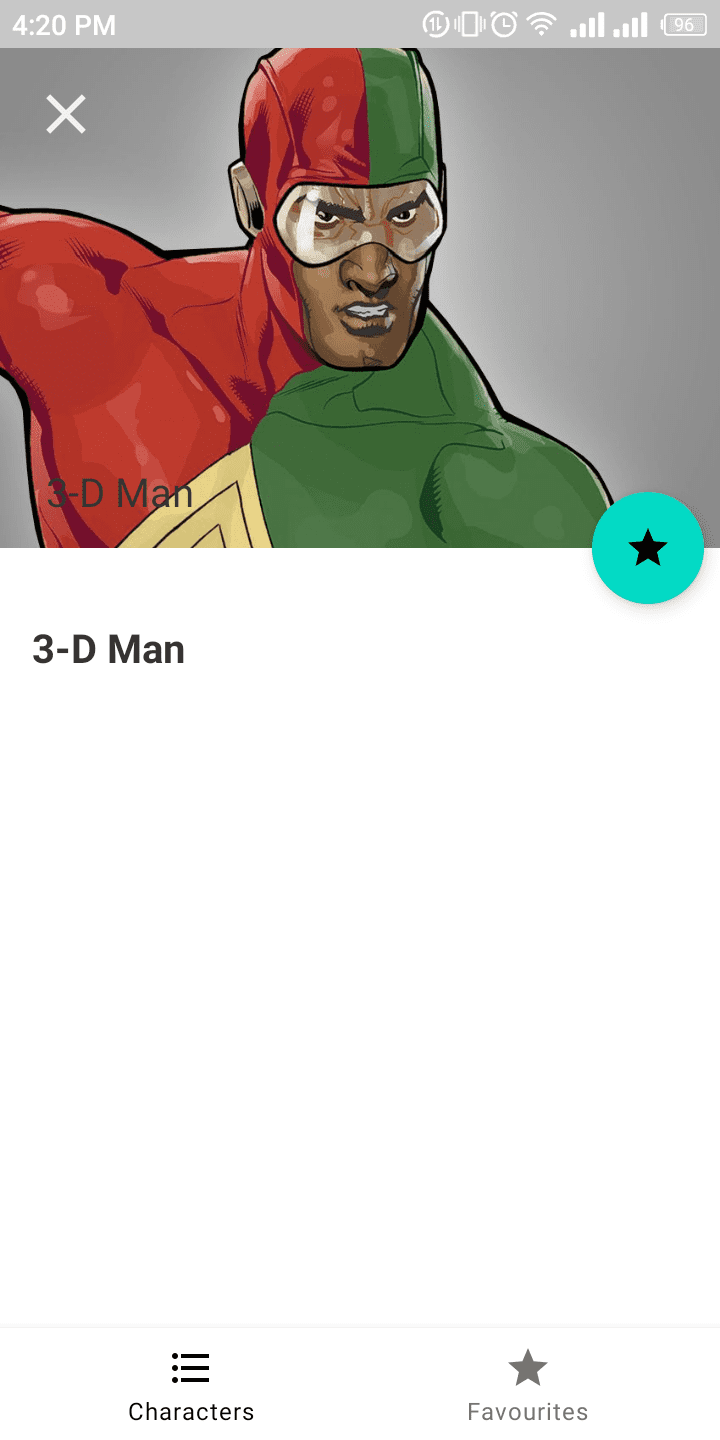
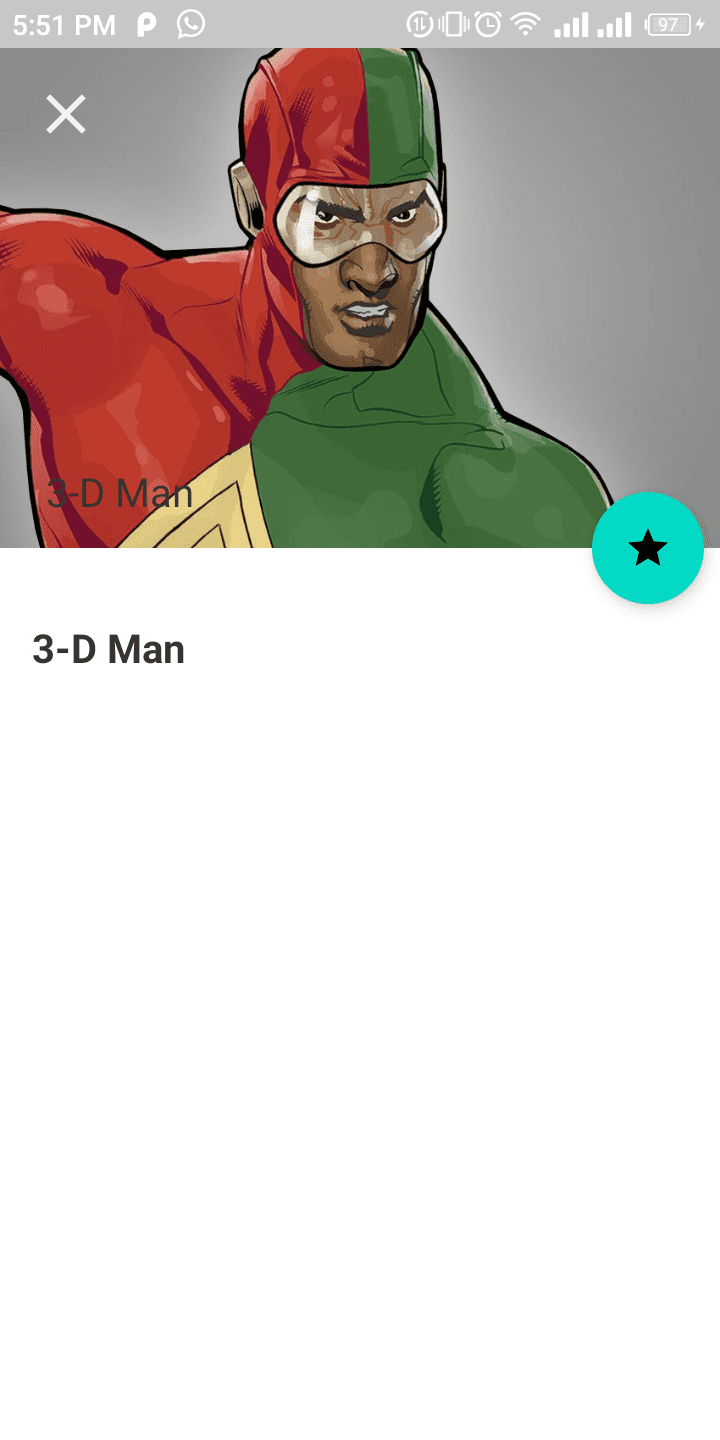
Hide BottomNavigation in detail screen

diff --git a/app/src/main/java/com/sirdave/marvelcomicsapp/ui/MainActivity.kt b/app/src/main/java/com/sirdave/marvelcomicsapp/ui/MainActivity.kt
@@ -1,8 +1,10 @@
 package com.sirdave.marvelcomicsapp.ui
 
 import android.os.Bundle
+import android.view.View
 import com.google.android.material.bottomnavigation.BottomNavigationView
 import androidx.appcompat.app.AppCompatActivity
+import androidx.navigation.NavController
 import androidx.navigation.findNavController
 import androidx.navigation.ui.AppBarConfiguration
 import androidx.navigation.ui.setupActionBarWithNavController
@@ -35,5 +37,24 @@ class MainActivity : AppCompatActivity() {
         )
         setupActionBarWithNavController(navController, appBarConfiguration)
         navView.setupWithNavController(navController)
+        setupNav(navController)
+    }
+
+    private fun setupNav(navController: NavController) {
+        navController.addOnDestinationChangedListener { _, destination, _ ->
+            when (destination.id) {
+                R.id.navigation_character -> showBottomNav()
+                R.id.navigation_favourite -> showBottomNav()
+                else -> hideBottomNav()
+            }
+        }
+    }
+
+    private fun showBottomNav() {
+        navView.visibility = View.VISIBLE
+    }
+
+    private fun hideBottomNav() {
+        navView.visibility = View.GONE
     }
 }
